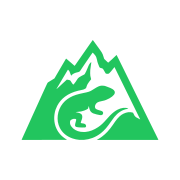
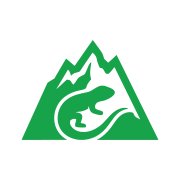
feat: two-tone wordmark in a softer green, wider home link
Brings back the two-toned "Repti"/"lian" wordmark, switches the logo
from #22c55e to the less bright #16a34a (another of the site's greens),
and pads the header's home link so clicks just around the logo also go
home. A negative margin keeps the header layout unchanged.

Claude-Session: https://claude.ai/code/session_01Xz6AJhuXoizpTinjyxNPEA

Changed region(s): [[0.1111, 0.2222, 0.8889, 0.7778]]

diff --git a/Frontend/src/components/layout/Header.css b/Frontend/src/components/layout/Header.css
@@ -33,11 +33,20 @@
 .logo {
   display: flex;
   align-items: center;
+  /* The padding widens the home link's click area around the logo; the negative margin keeps the
+     layout where it was. */
+  margin: -6px -8px;
+  padding: 6px 8px;
+  border-radius: 8px;
   text-decoration: none; /* Remove underline from link */
   color: var(--color-text);
 }
 
-/* The whole logo (mark and wordmark) is one image, public/logo.svg. */
+.logo:focus-visible {
+  outline: 2px solid var(--color-accent-bright);
+}
+
+/* The logo's wordmark is drawn for the dark header (light text); see public/logo.svg. */
 .logo img {
   display: block;
   width: auto;
